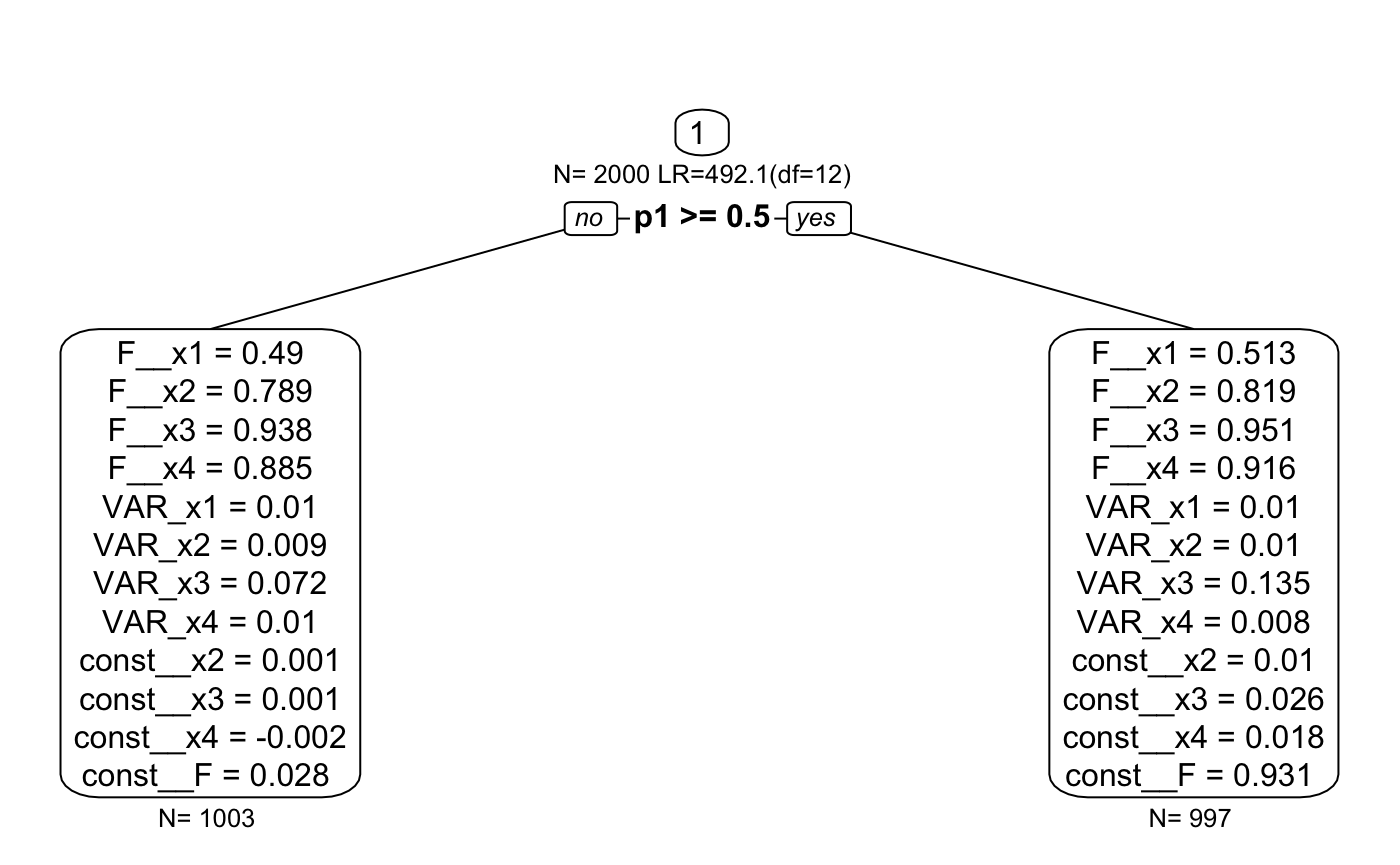
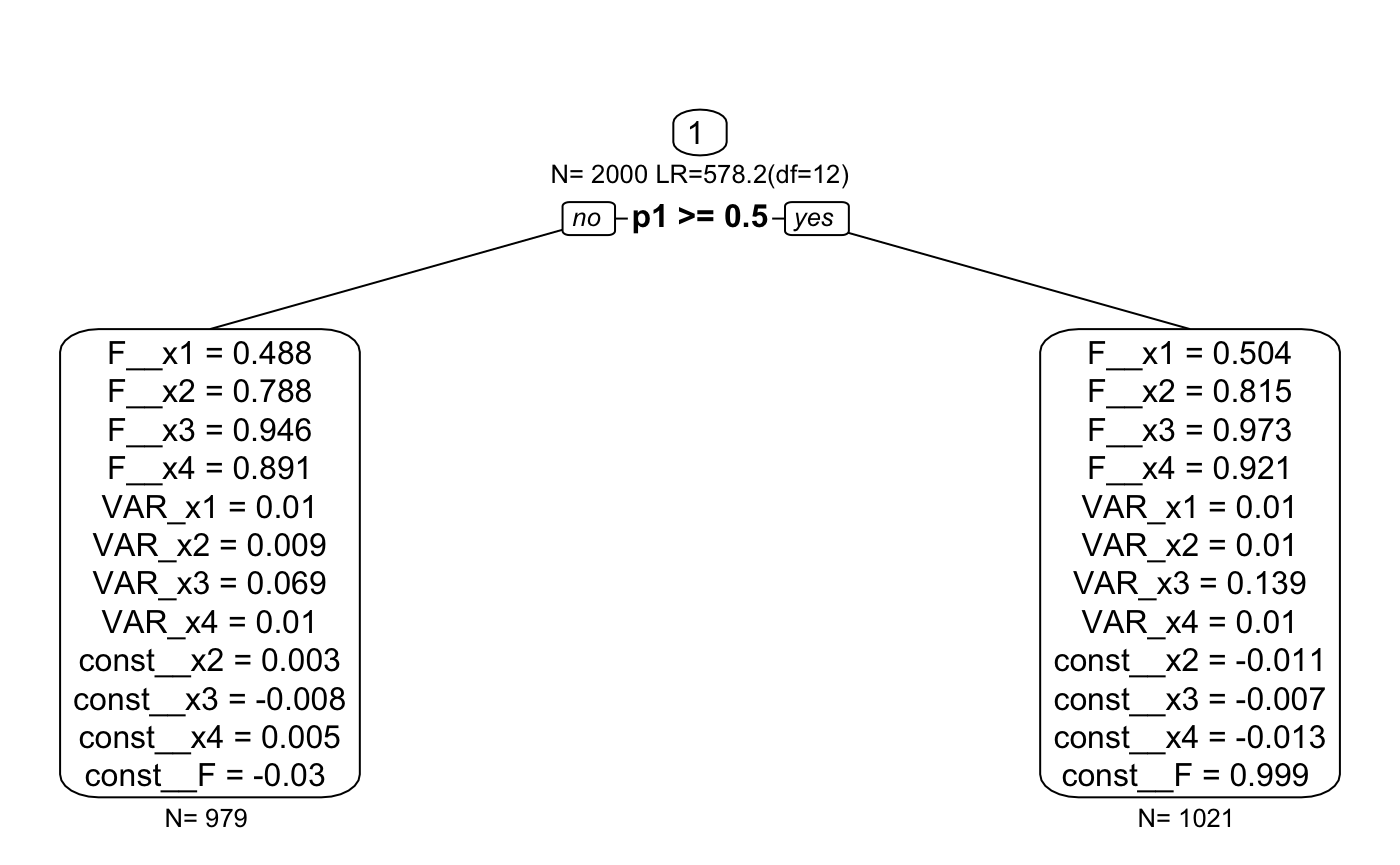
code cleaning

diff --git a/docs/articles/score-based-tests.html b/docs/articles/score-based-tests.html
@@ -87,7 +87,7 @@
       <h1>Score-based Tests</h1>
                         <h4 class="author">Andreas M. Brandmaier</h4>
             
-            <h4 class="date">2020-04-21</h4>
+            <h4 class="date">2020-04-22</h4>
       
       
       <div class="hidden name"><code>score-based-tests.Rmd</code></div>
@@ -232,8 +232,8 @@
 <span id="cb2-39"><a href="#cb2-39"></a><span class="co">#&gt; RMSEA:  0  [95% CI (NA, NA)]</span></span>
 <span id="cb2-40"><a href="#cb2-40"></a><span class="co">#&gt; Prob(RMSEA &lt;= 0.05): NA</span></span>
 <span id="cb2-41"><a href="#cb2-41"></a><span class="co">#&gt; To get additional fit indices, see help(mxRefModels)</span></span>
-<span id="cb2-42"><a href="#cb2-42"></a><span class="co">#&gt; timestamp: 2020-04-21 21:15:18 </span></span>
-<span id="cb2-43"><a href="#cb2-43"></a><span class="co">#&gt; Wall clock time: 0.05217218 secs </span></span>
+<span id="cb2-42"><a href="#cb2-42"></a><span class="co">#&gt; timestamp: 2020-04-22 06:50:03 </span></span>
+<span id="cb2-43"><a href="#cb2-43"></a><span class="co">#&gt; Wall clock time: 0.05293918 secs </span></span>
 <span id="cb2-44"><a href="#cb2-44"></a><span class="co">#&gt; optimizer:  CSOLNP </span></span>
 <span id="cb2-45"><a href="#cb2-45"></a><span class="co">#&gt; OpenMx version number: 2.17.3 </span></span>
 <span id="cb2-46"><a href="#cb2-46"></a><span class="co">#&gt; Need help?  See help(mxSummary)</span></span></code></pre></div>
@@ -250,16 +250,23 @@
 <div class="sourceCode" id="cb4"><pre class="sourceCode r"><code class="sourceCode r"><span id="cb4-1"><a href="#cb4-1"></a><span class="kw"><a href="https://rdrr.io/r/graphics/plot.html">plot</a></span>(tree)</span></code></pre></div>
 <p><img src="score-based-tests_files/figure-html/unnamed-chunk-5-1.png" width="75%"></p>
 <p>Implied mixture model:</p>
-<div class="sourceCode" id="cb5"><pre class="sourceCode r"><code class="sourceCode r"><span id="cb5-1"><a href="#cb5-1"></a>normals &lt;-<span class="st"> </span><span class="kw"><a href="https://rdrr.io/r/base/apply.html">apply</a></span>(semtree<span class="op">::</span><span class="kw"><a href="https://rdrr.io/pkg/semtree/man/getTerminalNodes.html">getTerminalNodes</a></span>(tree),<span class="dv">1</span>,<span class="cf">function</span>(x){  ggplot2<span class="op">::</span><span class="kw"><a href="https://ggplot2.tidyverse.org/reference/stat_function.html">stat_function</a></span>(<span class="dt">fun =</span> dnorm, <span class="dt">n =</span> <span class="dv">101</span>, <span class="dt">col=</span><span class="st">"black"</span>, <span class="dt">args =</span> <span class="kw"><a href="https://rdrr.io/r/base/list.html">list</a></span>(<span class="dt">mean =</span> x[<span class="dv">2</span>], <span class="dt">sd =</span> <span class="kw"><a href="https://rdrr.io/r/base/MathFun.html">sqrt</a></span>(x[<span class="dv">1</span>]))) })</span>
-<span id="cb5-2"><a href="#cb5-2"></a><span class="co">#&gt; Registered S3 method overwritten by 'ggplot2':</span></span>
-<span id="cb5-3"><a href="#cb5-3"></a><span class="co">#&gt;   method        from</span></span>
-<span id="cb5-4"><a href="#cb5-4"></a><span class="co">#&gt;   print.element sets</span></span>
-<span id="cb5-5"><a href="#cb5-5"></a></span>
-<span id="cb5-6"><a href="#cb5-6"></a>pl &lt;-<span class="st"> </span>ggplot2<span class="op">::</span><span class="kw"><a href="https://ggplot2.tidyverse.org/reference/ggplot.html">ggplot</a></span>(<span class="dt">data =</span> <span class="kw"><a href="https://rdrr.io/r/base/data.frame.html">data.frame</a></span>(<span class="dt">x =</span> <span class="kw"><a href="https://rdrr.io/r/base/c.html">c</a></span>(<span class="op">-</span><span class="dv">10</span>, <span class="dv">30</span>)), ggplot2<span class="op">::</span><span class="kw"><a href="https://ggplot2.tidyverse.org/reference/aes.html">aes</a></span>(x))</span>
-<span id="cb5-7"><a href="#cb5-7"></a><span class="cf">for</span> (n <span class="cf">in</span> normals) pl &lt;-<span class="st"> </span>pl <span class="op">+</span><span class="st"> </span>n</span>
-<span id="cb5-8"><a href="#cb5-8"></a></span>
-<span id="cb5-9"><a href="#cb5-9"></a><span class="kw"><a href="https://rdrr.io/r/graphics/plot.html">plot</a></span>(pl)</span></code></pre></div>
-<p><img src="score-based-tests_files/figure-html/unnamed-chunk-6-1.png" width="2187.5"></p>
+<div class="sourceCode" id="cb5"><pre class="sourceCode r"><code class="sourceCode r"><span id="cb5-1"><a href="#cb5-1"></a>tndata &lt;-<span class="st"> </span>semtree<span class="op">::</span><span class="kw"><a href="https://rdrr.io/pkg/semtree/man/getTerminalNodes.html">getTerminalNodes</a></span>(tree)</span>
+<span id="cb5-2"><a href="#cb5-2"></a></span>
+<span id="cb5-3"><a href="#cb5-3"></a>cols &lt;-<span class="st"> </span>viridis<span class="op">::</span><span class="kw"><a href="https://rdrr.io/pkg/viridis/man/reexports.html">plasma</a></span>(<span class="kw"><a href="https://rdrr.io/r/base/nrow.html">nrow</a></span>(tndata))</span>
+<span id="cb5-4"><a href="#cb5-4"></a><span class="co">#&gt; Registered S3 method overwritten by 'ggplot2':</span></span>
+<span id="cb5-5"><a href="#cb5-5"></a><span class="co">#&gt;   method        from</span></span>
+<span id="cb5-6"><a href="#cb5-6"></a><span class="co">#&gt;   print.element sets</span></span>
+<span id="cb5-7"><a href="#cb5-7"></a></span>
+<span id="cb5-8"><a href="#cb5-8"></a>pl &lt;-<span class="st"> </span>ggplot2<span class="op">::</span><span class="kw"><a href="https://ggplot2.tidyverse.org/reference/ggplot.html">ggplot</a></span>(<span class="dt">data =</span> <span class="kw"><a href="https://rdrr.io/r/base/data.frame.html">data.frame</a></span>(<span class="dt">x =</span> <span class="kw"><a href="https://rdrr.io/r/base/c.html">c</a></span>(<span class="op">-</span><span class="dv">20</span>, <span class="dv">20</span>)), ggplot2<span class="op">::</span><span class="kw"><a href="https://ggplot2.tidyverse.org/reference/aes.html">aes</a></span>(x))<span class="op">+</span></span>
+<span id="cb5-9"><a href="#cb5-9"></a><span class="st">  </span>ggplot2<span class="op">::</span><span class="kw"><a href="https://ggplot2.tidyverse.org/reference/labs.html">xlab</a></span>(<span class="st">"Change in Positive Affect"</span>)</span>
+<span id="cb5-10"><a href="#cb5-10"></a><span class="cf">for</span> (i <span class="cf">in</span> <span class="dv">1</span><span class="op">:</span><span class="kw"><a href="https://rdrr.io/r/base/nrow.html">nrow</a></span>(tndata)) {</span>
+<span id="cb5-11"><a href="#cb5-11"></a>  pl &lt;-<span class="st"> </span>pl <span class="op">+</span><span class="st"> </span>ggplot2<span class="op">::</span><span class="kw"><a href="https://ggplot2.tidyverse.org/reference/stat_function.html">stat_function</a></span>(<span class="dt">fun =</span> dnorm, </span>
+<span id="cb5-12"><a href="#cb5-12"></a>      <span class="dt">n =</span> <span class="dv">101</span>, <span class="dt">col=</span>cols[i], <span class="dt">args =</span> <span class="kw"><a href="https://rdrr.io/r/base/list.html">list</a></span>(<span class="dt">mean =</span> tndata[i,<span class="dv">2</span>], </span>
+<span id="cb5-13"><a href="#cb5-13"></a>                                        <span class="dt">sd =</span> <span class="kw"><a href="https://rdrr.io/r/base/MathFun.html">sqrt</a></span>(tndata[i,<span class="dv">1</span>])))</span>
+<span id="cb5-14"><a href="#cb5-14"></a>}</span>
+<span id="cb5-15"><a href="#cb5-15"></a></span>
+<span id="cb5-16"><a href="#cb5-16"></a><span class="kw"><a href="https://rdrr.io/r/graphics/plot.html">plot</a></span>(pl)</span></code></pre></div>
+<p><img src="score-based-tests_files/figure-html/unnamed-chunk-6-1.png" width="100%"></p>
 </div>
   </div>
 

diff --git a/docs/articles/constraints.html b/docs/articles/constraints.html
@@ -87,7 +87,7 @@
       <h1>Constraints in semtree</h1>
                         <h4 class="author">Andreas M. Brandmaier</h4>
             
-            <h4 class="date">2020-04-21</h4>
+            <h4 class="date">2020-04-22</h4>
       
       
       <div class="hidden name"><code>constraints.Rmd</code></div>
@@ -250,8 +250,8 @@
 <span id="cb10-27"><a href="#cb10-27"></a><span class="co">#&gt; RMSEA:  0  [95% CI (NA, NA)]</span></span>
 <span id="cb10-28"><a href="#cb10-28"></a><span class="co">#&gt; Prob(RMSEA &lt;= 0.05): NA</span></span>
 <span id="cb10-29"><a href="#cb10-29"></a><span class="co">#&gt; To get additional fit indices, see help(mxRefModels)</span></span>
-<span id="cb10-30"><a href="#cb10-30"></a><span class="co">#&gt; timestamp: 2020-04-21 21:14:51 </span></span>
-<span id="cb10-31"><a href="#cb10-31"></a><span class="co">#&gt; Wall clock time: 0.01590204 secs </span></span>
+<span id="cb10-30"><a href="#cb10-30"></a><span class="co">#&gt; timestamp: 2020-04-22 06:49:36 </span></span>
+<span id="cb10-31"><a href="#cb10-31"></a><span class="co">#&gt; Wall clock time: 0.01713896 secs </span></span>
 <span id="cb10-32"><a href="#cb10-32"></a><span class="co">#&gt; optimizer:  CSOLNP </span></span>
 <span id="cb10-33"><a href="#cb10-33"></a><span class="co">#&gt; OpenMx version number: 2.17.3 </span></span>
 <span id="cb10-34"><a href="#cb10-34"></a><span class="co">#&gt; Need help?  See help(mxSummary)</span></span></code></pre></div>

diff --git a/docs/reference/evaluateDataLikelihood.html b/docs/reference/evaluateDataLikelihood.html
@@ -217,7 +217,7 @@
 #&gt;     result &lt;- OpenMx::mxEval(objective, run)
 #&gt;     return(result)
 #&gt;   }
-#&gt; &lt;environment: 0x7fd55d25ce38&gt;</div></pre>
+#&gt; &lt;environment: 0x7fd28988fa10&gt;</div></pre>
   </div>
   <div class="col-md-3 hidden-xs hidden-sm" id="sidebar">
     <h2>Contents</h2>
